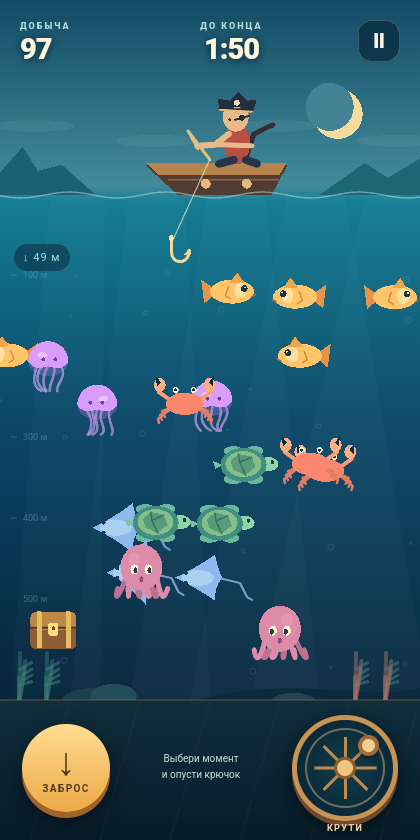
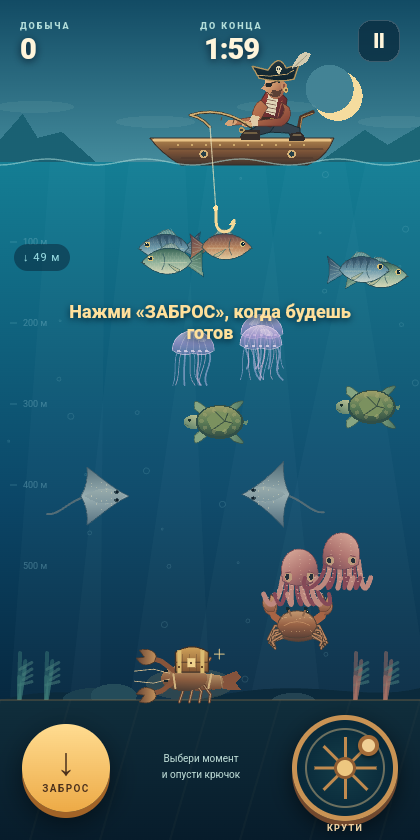
Publish Pirate Fishing 1.1.0 with detailed artwork and treasure lobster

diff --git a/README.md b/README.md
@@ -4,25 +4,33 @@
 
 ## Скачать игру
 
-**[Скачать Pirate Fishing 1.0.0 — APK](https://github.com/mikesokotun/pirate-fishing/releases/download/v1.0.0/Pirate-Fishing-1.0.0.apk)**
+**[Скачать Pirate Fishing 1.1.0 — APK](https://github.com/mikesokotun/pirate-fishing/releases/download/v1.1.0/Pirate-Fishing-1.1.0.apk)**
 
 [Страница релиза](https://github.com/mikesokotun/pirate-fishing/releases/latest) — эту ссылку можно отправить друзьям.
 
 Требуется **Android 6.0 или новее** с обновлённым Android System WebView. Скачайте APK на телефон и откройте файл. Если Android попросит, разрешите установку из браузера или файлового менеджера. Игра работает без интернета, рекламы и покупок. Релиз подписан для прямой установки.
+
+## Обновление 1.1.0
+
+Пират поднят выше, воды стало больше. Пират, лодка и все морские существа перерисованы подробнее. Раунд сокращён до двух минут, добавлен тяжёлый рак-сокровищник с наградой ×10.
 
 ## Как играть
 
 1. Крючок равномерно качается влево-вправо. Нажмите **ЗАБРОС** слева внизу, чтобы отправить его в глубину в выбранном направлении.
 2. Поймав добычу, **вращайте катушку справа по кругу** в любую сторону. Сильная добыча требует больше оборотов.
 3. Чем глубже улов, тем больше очков. Очки начисляются после подъёма на поверхность. Стенки и дно возвращают пустой крючок.
-4. Раунд длится **3 минуты**. Результат сохраняется автоматически; имя капитана можно изменить. В таблице остаются **20 лучших записей** на устройстве.
+4. Раунд длится **2 минуты**. Результат сохраняется автоматически; имя капитана можно изменить. В таблице остаются **20 лучших записей** на устройстве.
 
-В море есть рыбы, медузы, крабы, черепахи, скаты, осьминоги и сундуки. Катушка щёлкает при вращении и разматывается со звуком при спуске крючка. В настройках можно отключить звук и вибрацию; там же указано авторство. При сворачивании игра ставится на паузу. Удаление приложения или его данных удалит локальные рекорды.
+В море есть рыбы, медузы, крабы, черепахи, скаты, осьминоги и один большой рак с сундуком на спине. У каждого вида своя глубина; некоторые рыбы плавают быстрее. Рак бегает по дну, периодически скрывается за экраном и даёт **5500 очков**. Его подъём сопровождается отдельной мелодией. Обычный улов теперь требует вдвое больше вращения катушки. Катушка щёлкает при вращении и разматывается со звуком при спуске крючка. В настройках можно отключить звук и вибрацию; там же указано авторство. При сворачивании игра ставится на паузу. Удаление приложения или его данных удалит локальные рекорды.
 
 ![Игра в Android Emulator](Pirate-Fishing-Android.png)
 
 ## Проверка
 
-APK установлен и проверен в официальном эмуляторе **Android 15**: запуск, заброс, подъём круговым жестом, начисление очков, полный трёхминутный раунд, автоматическая запись, сохранение имени и рекорда после перезапуска, пауза при сворачивании. Проверены логика игры, компактный интерфейс и цифровая подпись APK. На физическом телефоне и отдельно на Android 6.0 проверка не проводилась.
+APK установлен и проверен в официальном эмуляторе **Android 15**: запуск, заброс, подъём круговым жестом, начисление очков, двухминутный таймер, автоматическая запись, сохранение имени и рекорда после перезапуска, пауза при сворачивании. Проверены логика игры, компактный интерфейс и цифровая подпись APK. На физическом телефоне и отдельно на Android 6.0 проверка не проводилась.
+
+Дополнительно на производственном APK проверен рак-сокровищник: 20 круговых сенсорных оборотов катушки, 5500 очков, победное событие/звук и автоматическое сохранение.
+
+Можно установить обновление поверх 1.0.0 с сохранением рекордов.
 
 Контрольная сумма APK находится в [SHA256SUMS.txt](SHA256SUMS.txt).
